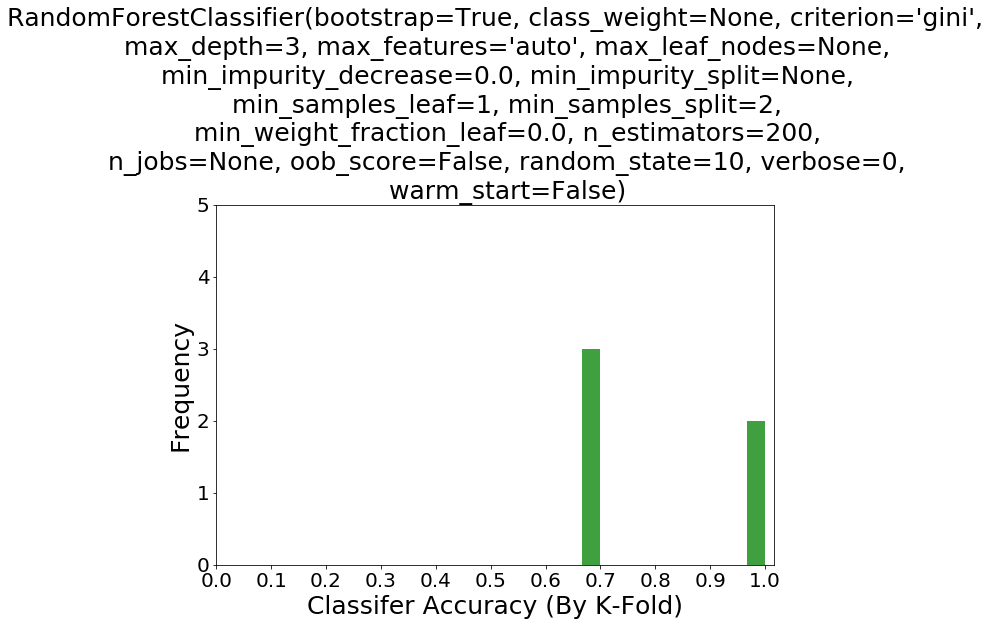
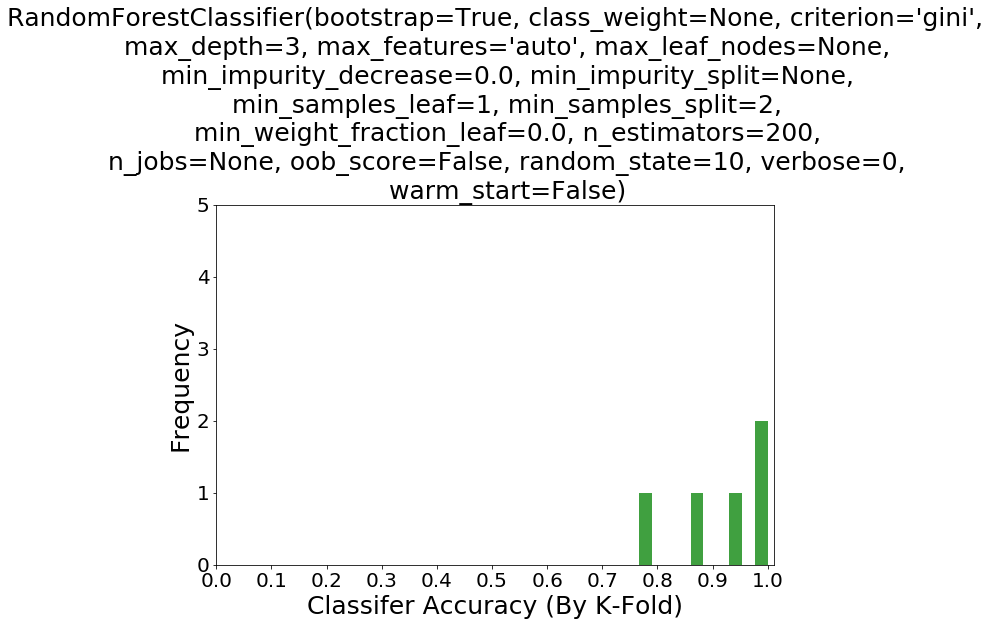
Updated code to use iris dataset.

Changed region(s): [[0.4848, 0.5463, 0.7879, 0.9409], [0.303, 0.9105, 0.3939, 0.9409], [0.4242, 0.9105, 0.4545, 0.9409]]

diff --git a/Assignment1/DeathToGridSearch-commented.py b/Assignment1/DeathToGridSearch-commented.py
@@ -10,6 +10,7 @@ from sklearn.metrics import accuracy_score
 from sklearn.ensemble import RandomForestClassifier
 from sklearn.linear_model import LogisticRegression
 from sklearn.model_selection import KFold  #EDIT: I had to import KFold 
+from sklearn import datasets
 import matplotlib.pyplot as plt
  
 # adapt this to run 
@@ -28,11 +29,14 @@ import matplotlib.pyplot as plt
 
 
 #EDIT: array M includes the X's
-M = np.array([[1,2],[3,4],[4,5],[4,5],[4,5],[4,5],[4,5],[4,5],[4,5],[4,5],[4,5],[4,5],[4,5],[4,5],[4,5],[4,5]])
+#M = np.array([[1,2],[3,4],[4,5],[4,5],[4,5],[4,5],[4,5],[4,5],[4,5],[4,5],[4,5],[4,5],[4,5],[4,5],[4,5],[4,5]])
 
 #EDIT: array L includes the Y's, they're all ones and as such is only for example (an ML algorithm would always predict 1).
-L = np.random.choice([0,1], size=(M.shape[0],), p=[1./3, 2./3])
+#L = np.random.choice([0,1], size=(M.shape[0],), p=[1./3, 2./3])
 
+iris = datasets.load_iris()
+M = iris.data
+L = iris.target
 #EDIT: a single value, 5, to use for 5-fold (k-fold) cross validation
 n_folds = 5
 
